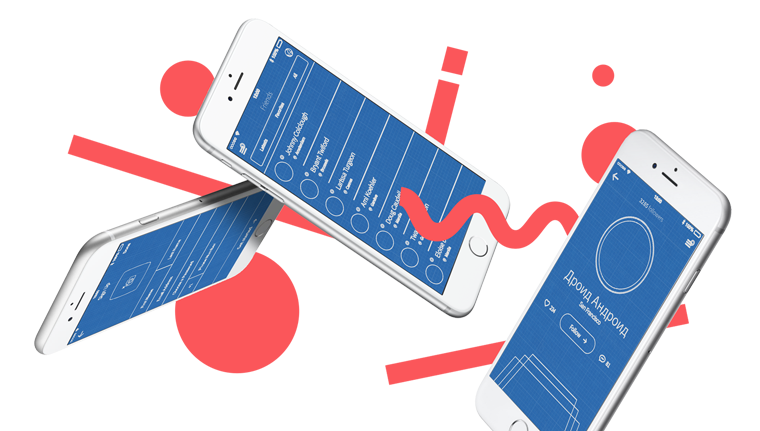
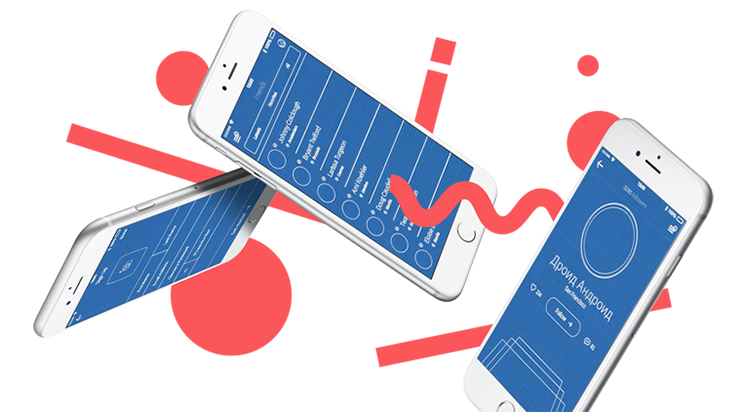
8-2

diff --git a/css/style.css b/css/style.css
@@ -48,6 +48,10 @@ img {
 
 /*Header*/
 
+.header {
+  z-index: 2;
+}
+
 .main-header-logo {
   display: block;
   margin-left: 140px;
@@ -168,6 +172,8 @@ img {
   width: 1100px;
   border-bottom: var(--basic-extra-light) solid 1px;
   padding-bottom: 90px;
+  position: relative;
+  top: 10px;
 }
 
 .second-header {
@@ -184,7 +190,7 @@ img {
   flex-direction: row;
   align-items: flex-start;
   justify-content: center;
-  padding-top: 29px;
+  padding-top: 119px;
   grid-column-start: 1;
   grid-column-end: 4;
   grid-row-start: 1;
@@ -214,7 +220,7 @@ img {
   font-weight: 500;
   line-height: 55px;
   position: relative;
-  top: 77px;
+  top: 61px;
 }
 
 .services-slogan-description {
@@ -225,7 +231,7 @@ img {
   font-weight: 400;
   line-height: 24px;
   position: relative;
-  top: 60px;
+  top: 45px;
   font-family: inherit;
   font-size: 16px;
   line-height: 24px;
@@ -243,11 +249,11 @@ h1 {
 
 .wrapper {
   width: 760px;
-  min-height: 427px;
+  min-height: 415px;
   left: 538px;
   top: -263px;
   position: relative;
-  top: -330px;
+  top: -346px;
 }
 
 /*Slider*/
@@ -260,8 +266,8 @@ h1 {
 .slider input[type="radio"] {
 width: 25px;
 position: relative;
-top: 375px;
-left: 142px;
+top: 370px;
+left: 139px;
 z-index: 2;
 opacity: 0;
 }
@@ -300,7 +306,7 @@ opacity: 0;
   cursor: pointer;
   transition: background-color 0.2s;
   position: relative;
-  top: 353px;
+  top: 348px;
   left:-200px;
   z-index: 1;
 }
@@ -330,16 +336,17 @@ opacity: 0;
 .container-wrapper {
   background-color: var(--basic-extra-light);
   width: 1440px;
-  height: 431px;
+  height: 415px;
   margin: 0 auto;
 }
 
 .container-wrapper-bar {
   background-color: var(--basic-extra-light);
   width: 100%;
-  height: 431px;
+  height: 415px;
   margin: 0 auto 0 auto;
   position: relative;
+  top: 10px;
 }
 
 .know-more {
@@ -354,7 +361,7 @@ opacity: 0;
   line-height: 18px;
   text-transform: uppercase;
   position: relative;
-  top: 80px;
+  top: 70px;
   border-radius: 3px;
   margin-left: 140px;
   display: block;
@@ -624,6 +631,11 @@ opacity: 0;
   left: 59px;
 }
 
+.about-us {
+  position: relative;
+  top: 10px;
+}
+
 .about-us h2 {
   display: none;
 }
@@ -711,7 +723,7 @@ opacity: 0;
 .footer-map img:nth-child(2) {
   position: relative;
   left: 823px;
-  bottom: -70px;
+  bottom: -80px;
 }
 
 .footer-map {
@@ -782,13 +794,14 @@ opacity: 0;
   justify-content: space-between;
   align-items: center;
   position: relative;
-  top: 450px;
+  top: 476px;
 }
 
 .final-text {
   display: block;
   margin: 400px auto auto 540px;
   position: relative;
+  top: 7px;
 }
 
 .final-text p:first-child {
@@ -796,7 +809,7 @@ opacity: 0;
   font-size: 36px;
   line-height: 36px;
   font-weight: 700;
-  margin-bottom: -7px;
+  margin-bottom: -9px;
 }
 
 .final-text p:nth-child(2) {
@@ -1189,7 +1202,7 @@ opacity: 0;
   grid-column-end: 2;
   grid-row-start: 2;
   grid-row-end: 3;
-  margin: 5px auto auto 140px;
+  margin: 10px auto auto 140px;
 }
 
 .products {
@@ -1428,7 +1441,8 @@ opacity: 0;
   border-radius: 3px;
   text-transform: uppercase;
   text-align: center;
-  margin-top: 35px;
+  position: relative;
+  top: -15px;
 }
 
 .button:hover {

diff --git a/index.html b/index.html
@@ -60,9 +60,9 @@
                             </div>
                              <div class="slider-inner">
                             <div class="slider-slides">
-                                <img src="img/nerds-index-slide1.png" width="760"  height="431" alt="Первый слайд">
-                                <img src="img/nerds-index-slide2.png" width="760"  height="431" alt="Второй слайд">
-                                <img src="img/nerds-index-slide3.png" width="760"  height="431" alt="Тетий слайд">
+                                <img src="img/nerds-index-slide1.png" width="760"  height="421" alt="Первый слайд">
+                                <img src="img/nerds-index-slide2.png" width="760"  height="421" alt="Второй слайд">
+                                <img src="img/nerds-index-slide3.png" width="760"  height="421" alt="Тетий слайд">
                             </div>
                         </div>
                     </div>
